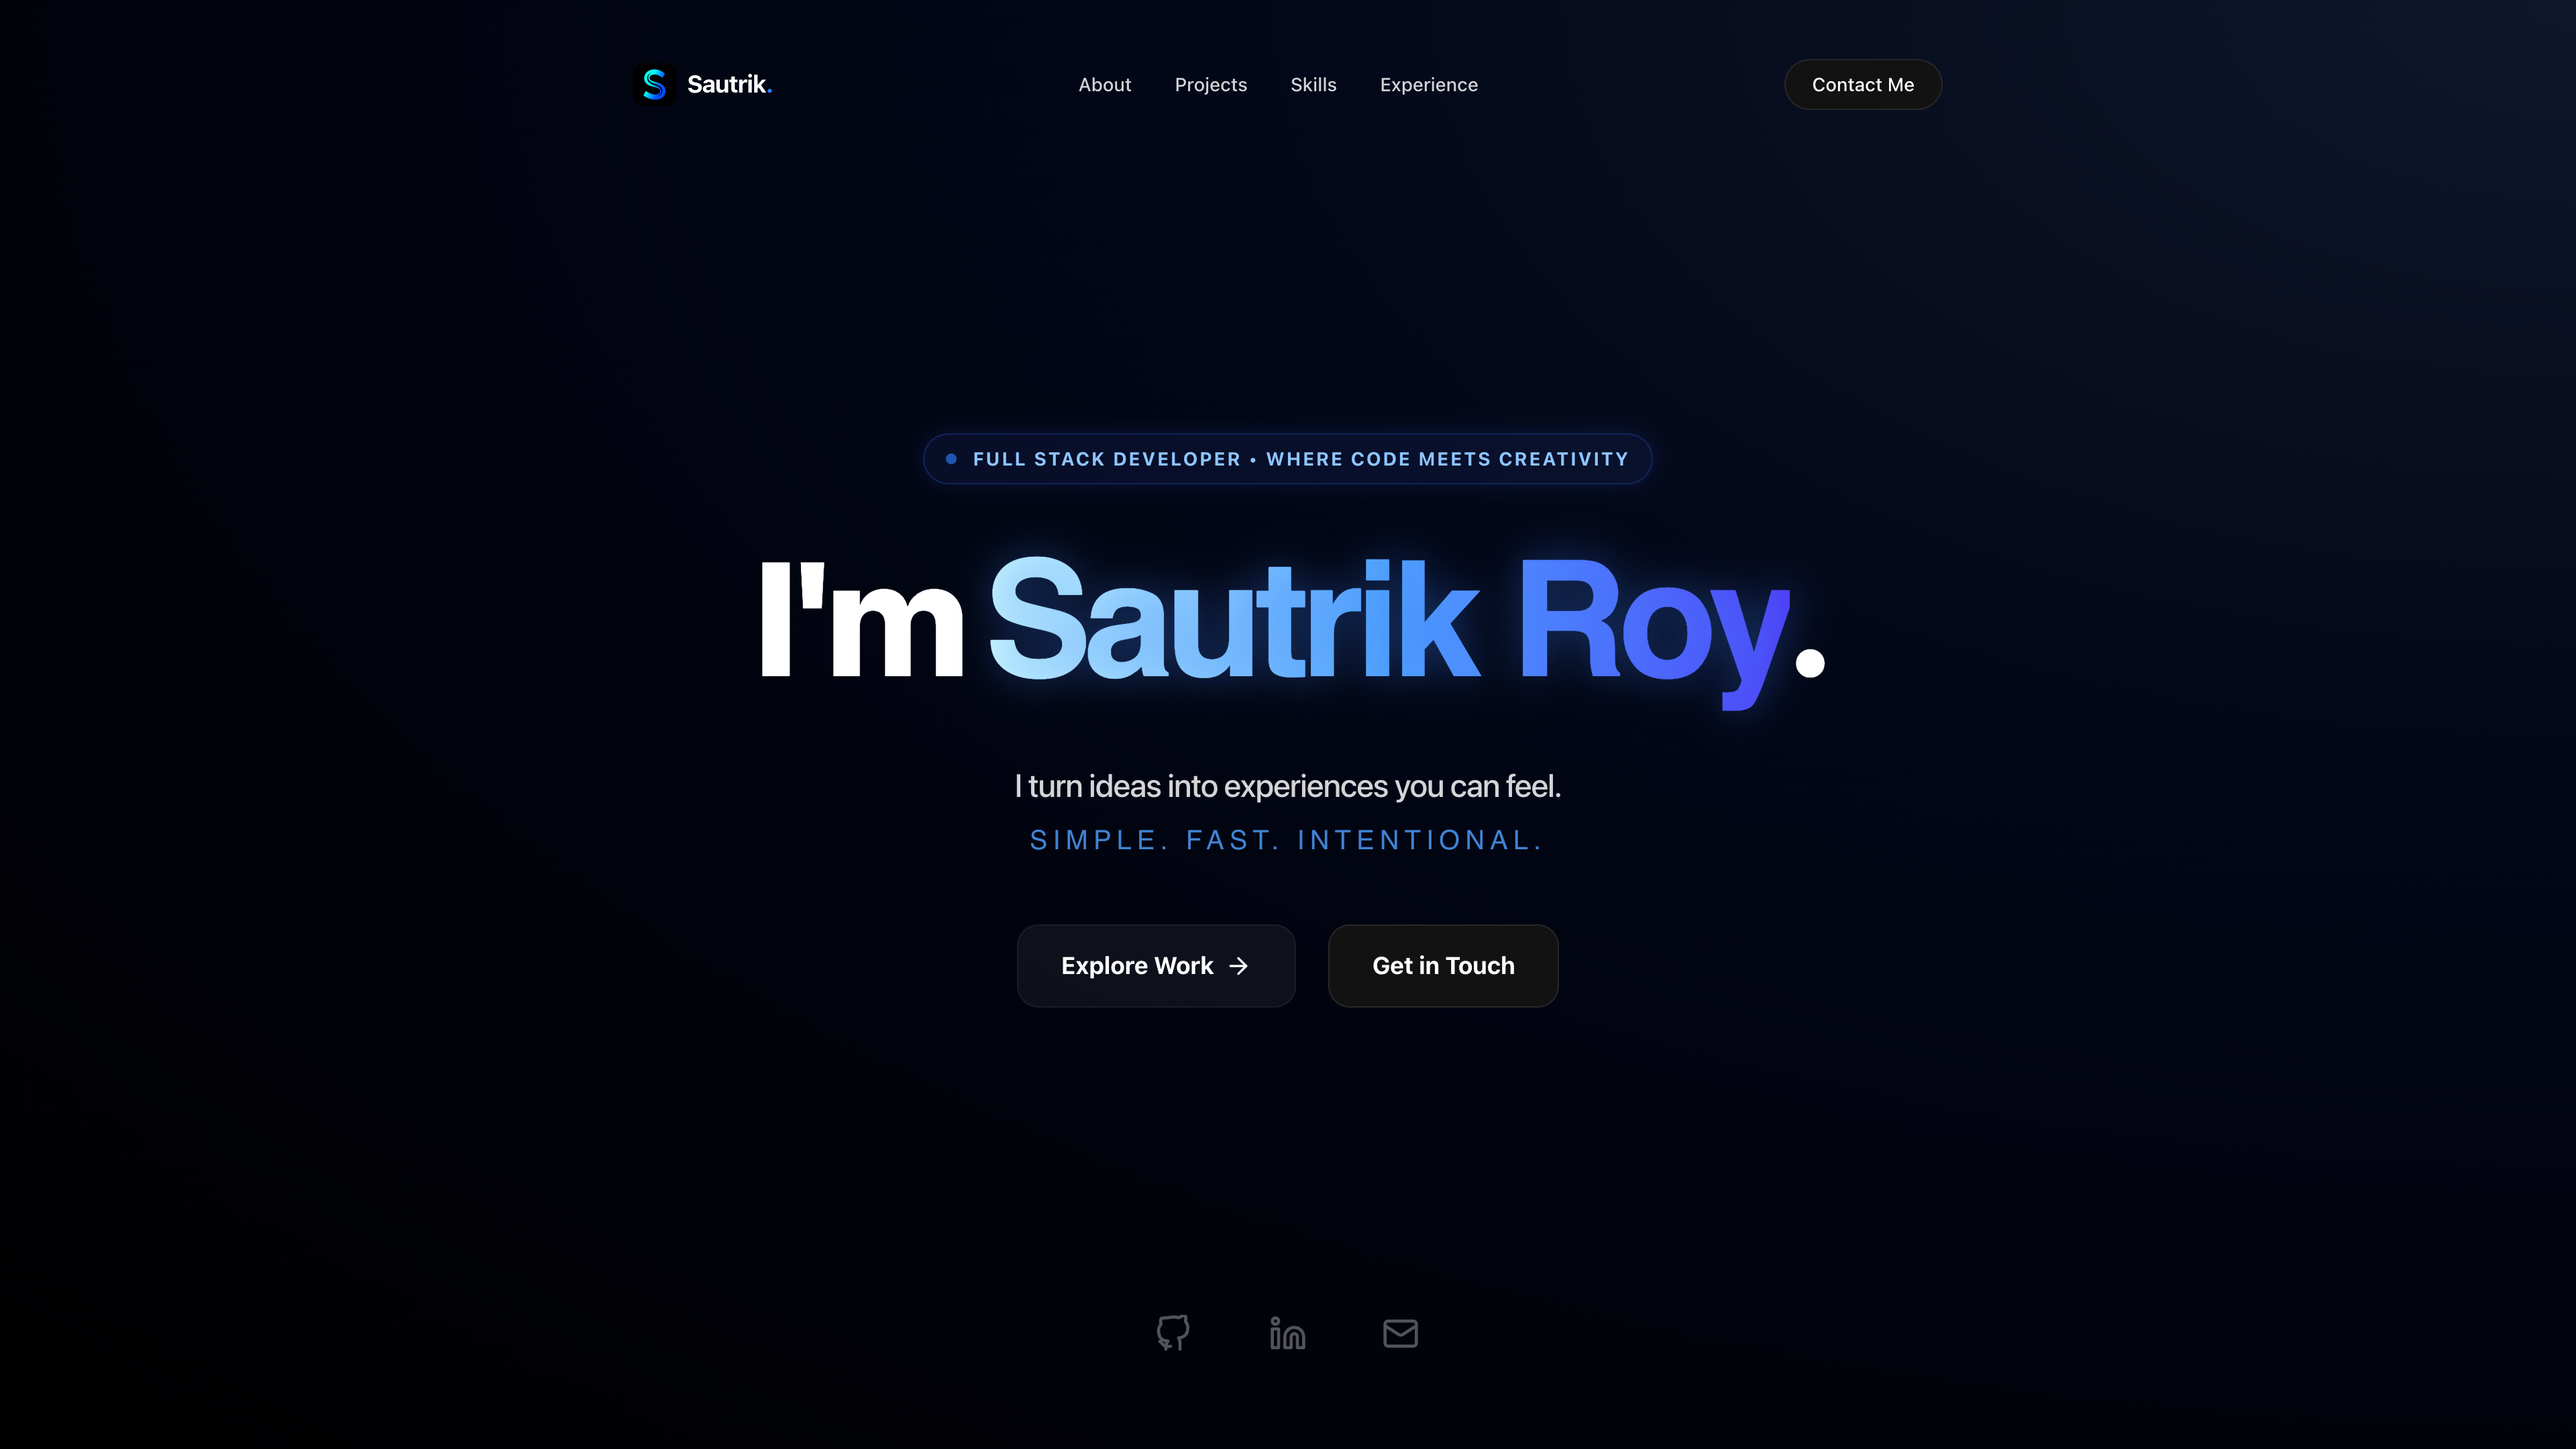
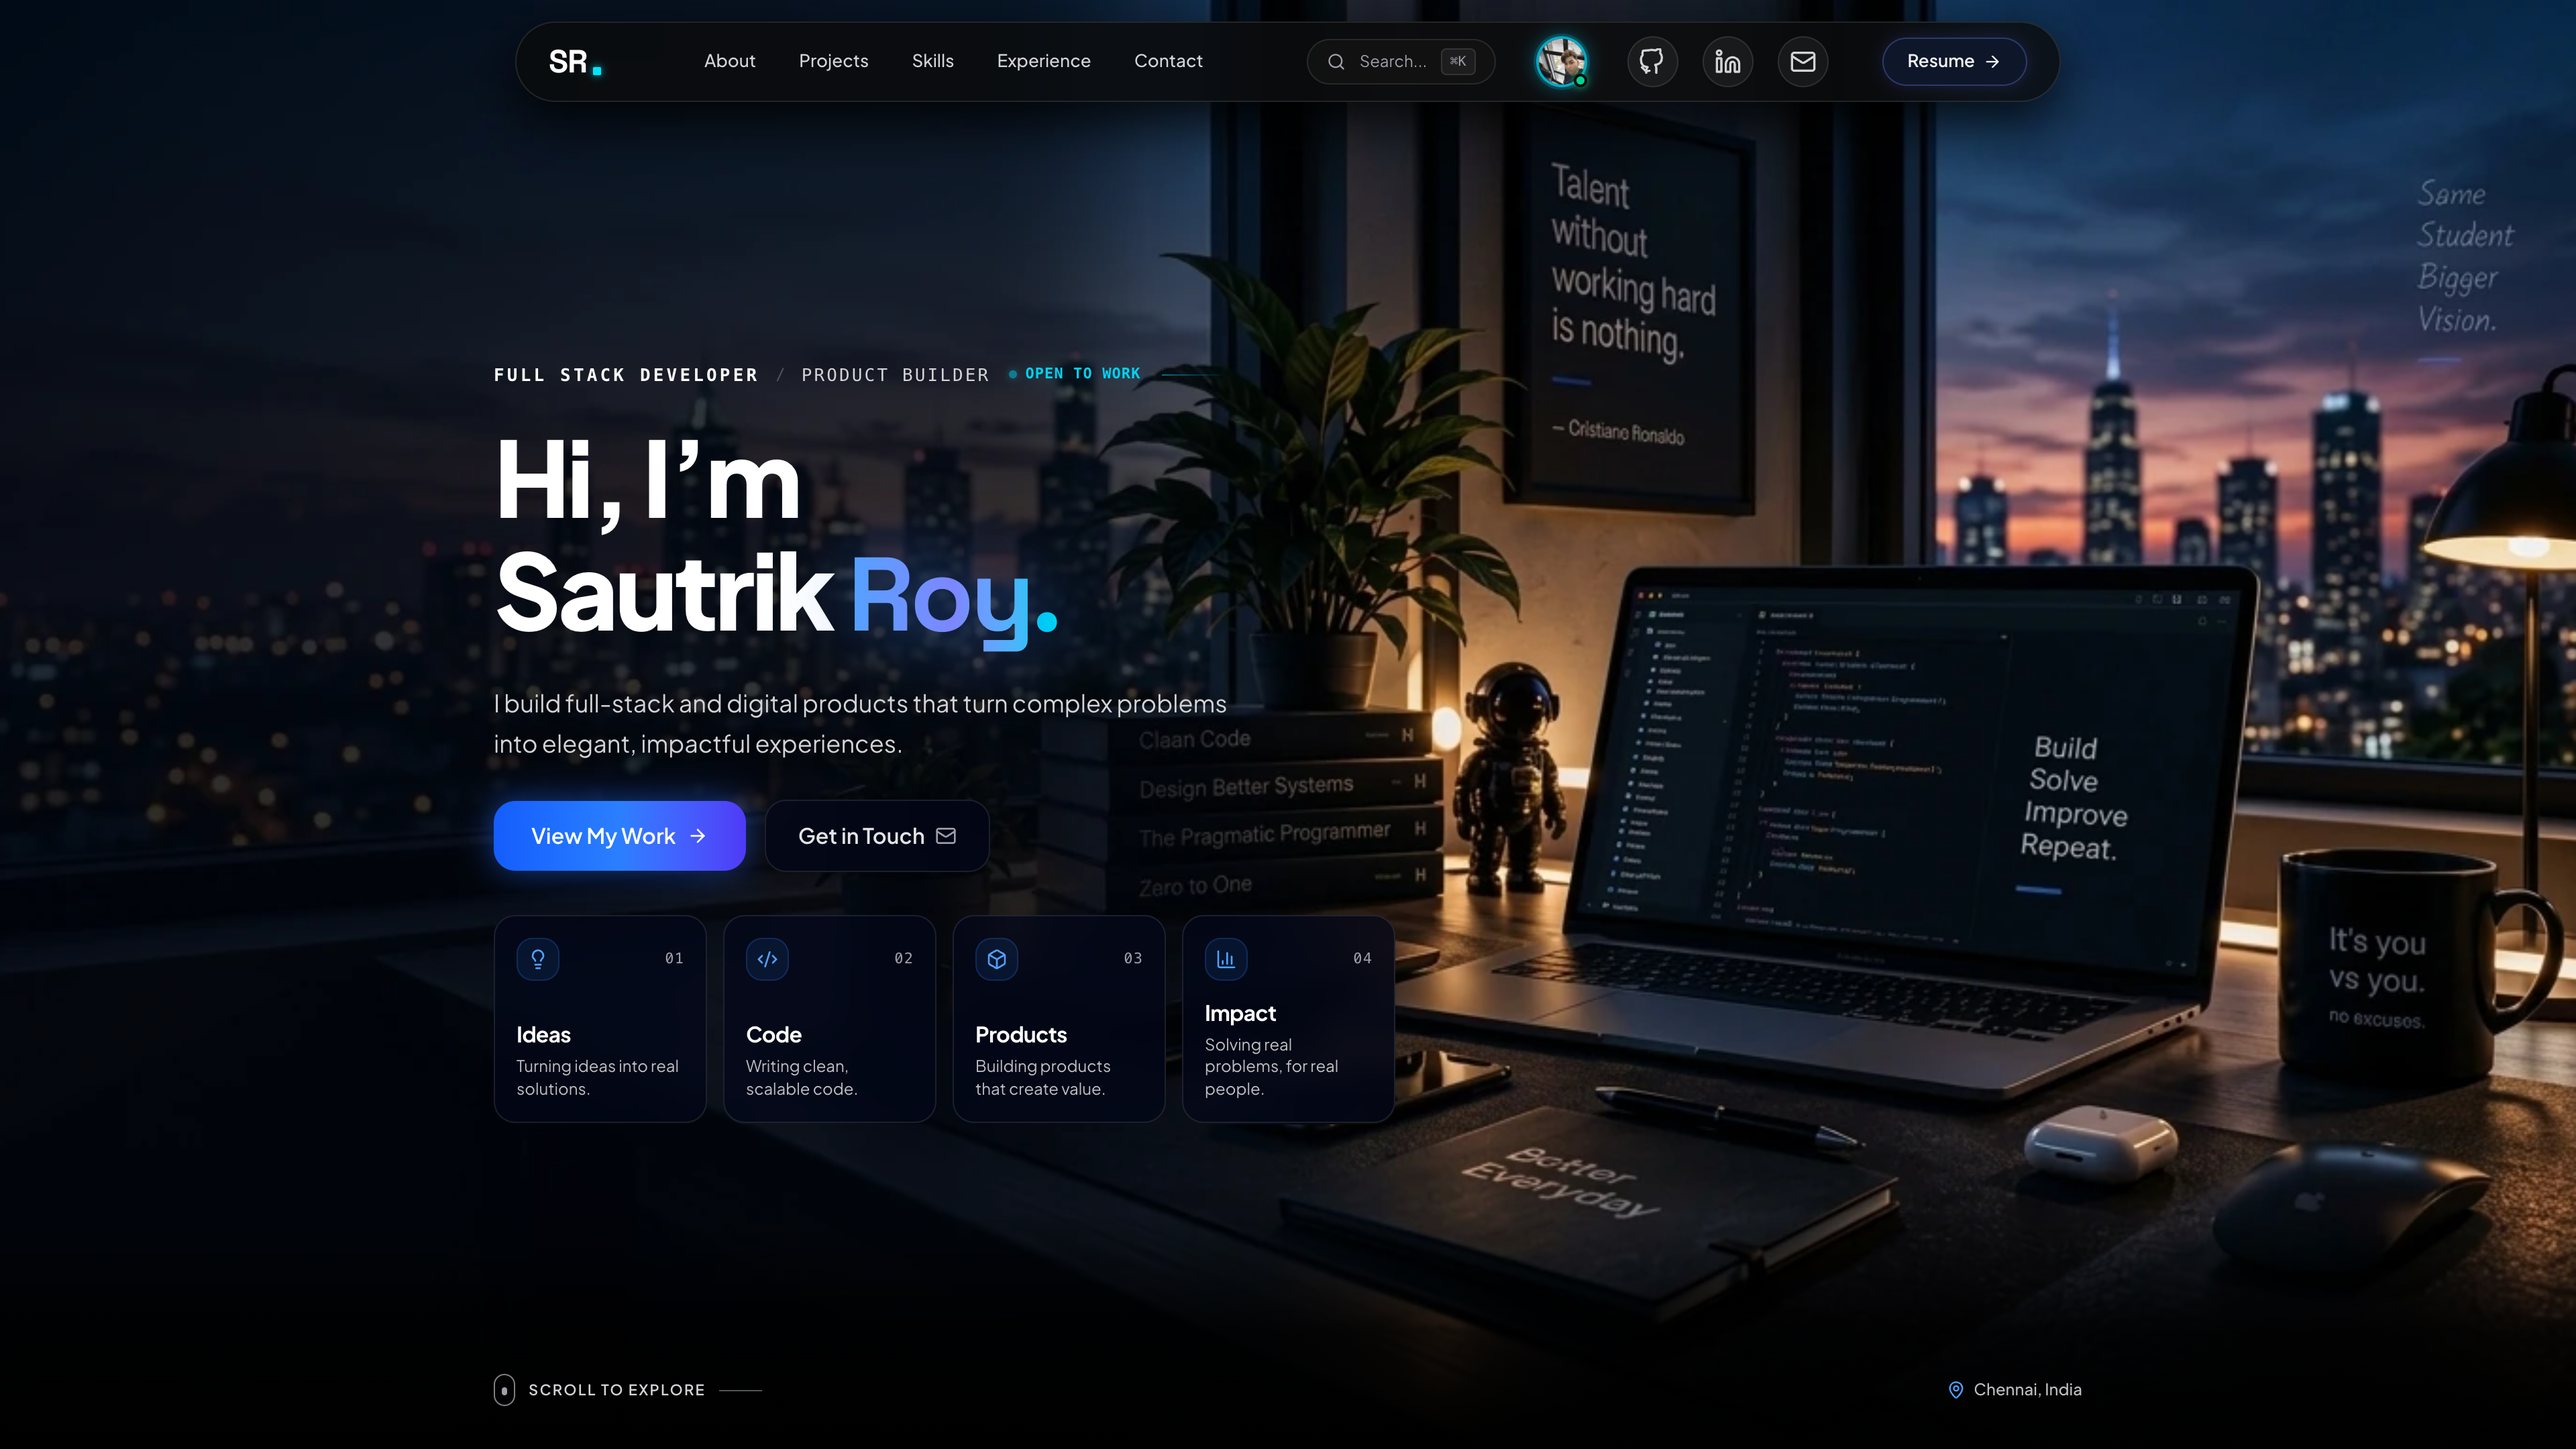
feat: subtle glow dot beside OPEN TO WORK and updated README landing page screenshot

diff --git a/src/components/sections/Hero.jsx b/src/components/sections/Hero.jsx
@@ -105,10 +105,12 @@ export default function Hero() {
               <span className="text-xs sm:text-[13px] font-mono font-medium tracking-[0.12em] text-zinc-300 uppercase">
                 PRODUCT BUILDER
               </span>
-              <span className="text-zinc-700 font-mono text-xs select-none">•</span>
-              <span className="text-[10px] sm:text-[11px] font-mono font-semibold tracking-wider text-cyan-400 uppercase">
-                OPEN TO WORK
-              </span>
+              <div className="inline-flex items-center gap-1.5 ml-0.5">
+                <span className="w-1.5 h-1.5 rounded-full bg-cyan-400 shadow-[0_0_6px_rgba(34,211,238,0.75)] animate-pulse shrink-0" />
+                <span className="text-[10px] sm:text-[11px] font-mono font-semibold tracking-wider text-cyan-400 uppercase drop-shadow-[0_0_8px_rgba(34,211,238,0.25)]">
+                  OPEN TO WORK
+                </span>
+              </div>
               <div className="hidden sm:block h-[1px] w-12 bg-gradient-to-r from-cyan-400/50 to-transparent ml-1" />
             </div>
           </motion.div>
